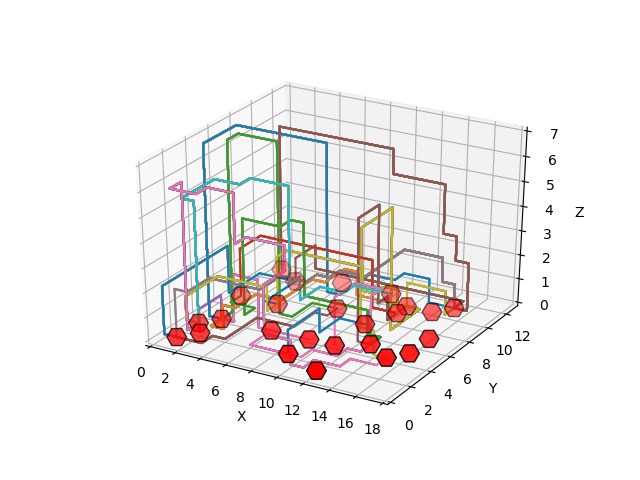
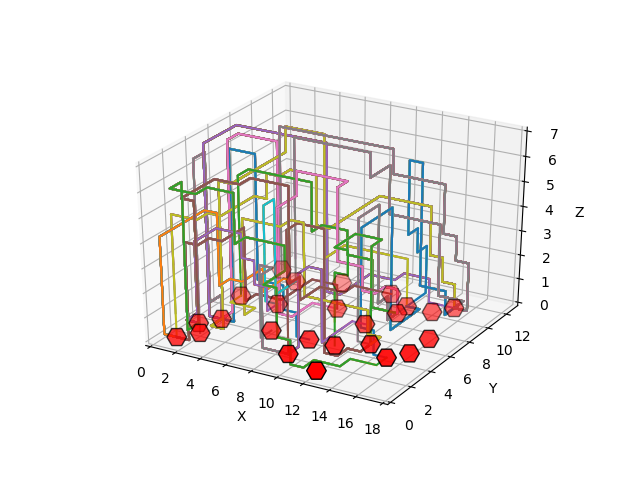
astar verbeterd

Changed region(s): [[0.25, 0.25, 0.75, 0.7812]]

diff --git a/code/algorithms/astar.py b/code/algorithms/astar.py
@@ -36,18 +36,18 @@ def manhattan_distance(current, end):
 	return heuristic
 
 
-def distance_to_gate(gates, current, start, end, occurance_gate):
+def distance_to_gate(gates, current, start, end, occurance_gate, sorted_netlist):
 	""" Protect points around gates that need to be accessible for multiple wires. """
 
 	heuristic = manhattan_distance(current, end)
 	for gate in gates:
-		if manhattan_distance(current, gate) == 1 and gate != start and gate != end and occurance_gate[gate] > 1:
+		if manhattan_distance(current, gate) == 1 and gate != start and gate != end and (occurance_gate[gate] > 1 or gate in sorted_netlist[-5:]):
 			heuristic = manhattan_distance(current, end) + 50
 
 	return heuristic
 
 
-def loose_cables(parent, current, end, gates, start, occurance_gate):
+def loose_cables(parent, current, end, gates, start, occurance_gate, netlist):
 	""" Make looser cables cheaper, to generate suboptimal solutions that can be optimised itteratively. """
 
 	# how happy does going in positive z-direction make the heuristic
@@ -58,7 +58,7 @@ def loose_cables(parent, current, end, gates, start, occurance_gate):
 	else:
 		looseness = 1
 
-	heuristic = 2 * (distance_to_gate(gates, current, start, end, occurance_gate) / looseness)
+	heuristic = 2 * (distance_to_gate(gates, current, start, end, occurance_gate, netlist) / looseness)
 
 	return heuristic
 
@@ -88,21 +88,23 @@ def make_neighbours(grid, parent, current, end):
 	return neighbours
 
 
-def astar(gates, grid, start, end, occurance_gate):
+def astar(gates, grid, start, end, occurance_gate, netlist):
 	""" A* for connecting gates on a grid. """
 
 	Q = []
+	visited_points = {}
 
 	heappush(Q, (None, [start]))
 
 	while len(Q) > 0:
-		current_path = heappop(Q)[1]
+		top_tuple = heappop(Q)
+		current_path = top_tuple[1]
+		if not current_path[-1] in visited_points:
+			visited_points[current_path[-1]] = top_tuple[0]
+		elif top_tuple[0] < visited_points[current_path[-1]]:
+			visited_points[current_path[-1]] = top_tuple[0]
 
 		neighbours = make_neighbours(grid, current_path[len(current_path) - 2], current_path[-1], end)
-
-		# stop if there are no neighbours for the current point, to decrease runtime and continue trying other nets
-		if not neighbours:
-			return [(0, 0, 0)]
 
 		# determine heuristic (h), cost, f for neighbours and place in heapq accordingly
 		for neighbour in neighbours:
@@ -110,8 +112,8 @@ def astar(gates, grid, start, end, occurance_gate):
 			""" choose which function for the heuristic to use by commenting out the others """
 
 			# h = manhattan_distance(neighbour, end)
-			h = distance_to_gate(gates, neighbour, start, end, occurance_gate)
-			# h = loose_cables(current_path[-1], neighbour, end, gates, start, occurance_gate)
+			h = distance_to_gate(gates, neighbour, start, end, occurance_gate, netlist)
+			# h = loose_cables(current_path[-1], neighbour, end, gates, start, occurance_gate, netlist)
 
 			new_path = current_path + [neighbour]
 
@@ -120,9 +122,18 @@ def astar(gates, grid, start, end, occurance_gate):
 					grid[point[0]][point[1]][point[2]] = True
 
 				return new_path
-
+			
 			f = h + len(new_path) - 1
-			heappush(Q, (f, new_path))
+
+			if not neighbour in visited_points.keys():
+				heappush(Q, (f, new_path))
+				visited_points[neighbour] = f
+			else:
+				if visited_points[neighbour] > f:
+					heappush(Q, (f, new_path))
+					visited_points[neighbour] = f
+
+	return [(0, 0, 0)]
 
 
 def execute_astar(netlist, chip, loopdieloop=True):
@@ -173,8 +184,8 @@ def execute_astar(netlist, chip, loopdieloop=True):
 								between = new_between
 								break
 
-					path_1 = astar(gates, grid, start, between, occurance_gate)
-					path_2 = astar(gates, grid, between, end, occurance_gate)
+					path_1 = astar(gates, grid, start, between, occurance_gate, netlist)
+					path_2 = astar(gates, grid, between, end, occurance_gate, netlist)
 
 					# if half of the wire was not laid, remove the other half as well
 					if path_1 == [(0, 0, 0)] or path_2 == [(0, 0, 0)]:
@@ -186,7 +197,7 @@ def execute_astar(netlist, chip, loopdieloop=True):
 						output_dict[net] = path_1 + path_2
 
 				else:
-					path = astar(gates, grid, start, end, occurance_gate)
+					path = astar(gates, grid, start, end, occurance_gate, netlist)
 					output_dict[net] = path
 
 
@@ -195,7 +206,9 @@ def execute_astar(netlist, chip, loopdieloop=True):
 		for net in netlist:
 			start = net[0]
 			end = net[1]
-			path = astar(gates, grid, start, end, occurance_gate)
+			path = astar(gates, grid, start, end, occurance_gate, netlist)
 			output_dict[net] = path
+			print(path)
+			# input("wil je door?")
 
 	return output_dict

diff --git a/main.py b/main.py
@@ -96,9 +96,8 @@ if __name__ == '__main__':
 		x_dim = chiploop.get_x_dimension(chiploop.gates)
 		y_dim = chiploop.get_y_dimension(chiploop.gates)
 
-		# # create visual representation of the solved chip
-		# visualise = matplot.visualise(chiploop.gates, wires.wire, x_dim, y_dim)
-		visualise = matplot.visualise(chiploop.gates, wires.hill.run_hill, x_dim, y_dim)
+		# create visual representation of the solved chip
+		visualise = matplot.visualise(chiploop.gates, wires.wire, x_dim, y_dim)
 		break
 
 	print(f"The total_cost is {total_cost}.\n")
